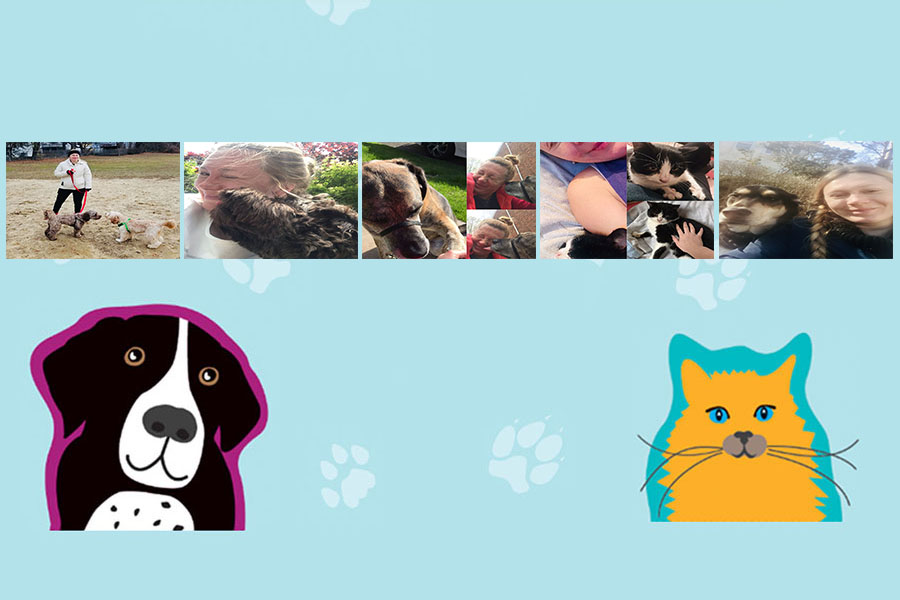
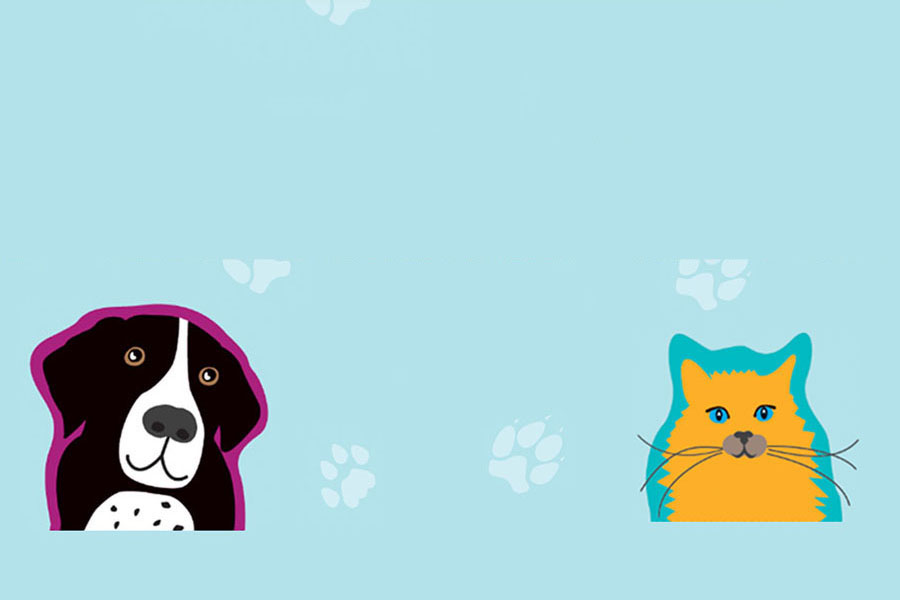
Picture strip in sep image

Changed region(s): [[0.0, 0.21, 0.9956, 0.45]]

diff --git a/index.html b/index.html
@@ -82,39 +82,24 @@
   
      
     <div class="site-blocks-cover overlay" style="background-image: url(images/DogWalking.jpg);" data-aos="fade" id="home-section">
+      <img class="backgroundStripImage" src="images/PictureStrip.jpg">
 
       <div class="container">
-        <div class="row align-items-center justify-content-center">
-
-          
+        <div class="row align-items-center justify-content-center" style="height: 450px; min-height: 450px !important;">
           <div class="col-md-8 mt-lg-5 text-center">
             <h1 class="text-uppercase" data-aos="fade-up">Welcome</h1>
-            <p style="font-weight: bold;" class="mb-5 desc"  data-aos="fade-up" data-aos-delay="100">Anna's Dog Walking and Pet Care.</p>
+            <p style="font-weight: bold;" class="mb-5 desc" data-aos-delay="100">Anna's Dog Walking and Pet Care.</p>
+            <!--
             <div data-aos="fade-up" data-aos-delay="100">
               <a href="https://www.rover.com/members/anna-u-love-pets/" target="_blank" class="btn smoothscroll btn-primary mr-2 mb-2">Rover Page</a>
             </div>
+          -->
           </div>
             
         </div>
       </div>
 
     </div>  
-
-
-
-
-
-
-
-
-
-
-
-
-
-
-
-
 
     
     <div class="site-section cta-big-image" id="about-section">

diff --git a/css/style.css b/css/style.css
@@ -2055,4 +2055,10 @@ figure figcaption {
   .inVisible{
     display: none !important;
   }
+
+
+  .backgroundStripImage{
+    width: 100%;
+    margin-top: 130px;
+  }
   
